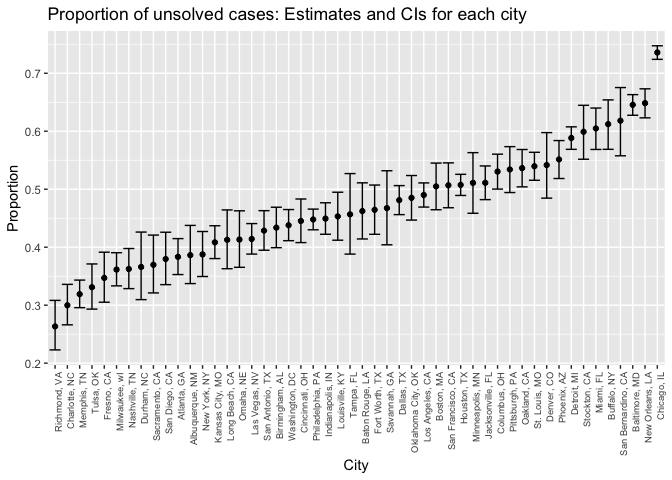
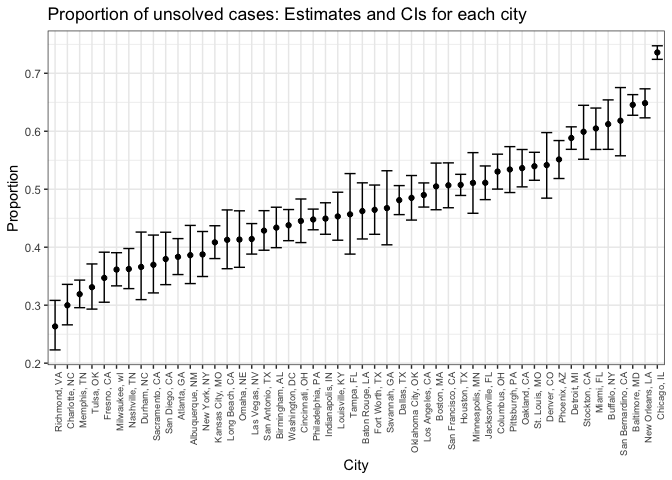
modified text and plot styling

diff --git a/p8105_hw5_xy2395.md b/p8105_hw5_xy2395.md
@@ -67,6 +67,7 @@ data_p1 %>%
   group_by(arm, new_id) %>% 
   ggplot(aes(x = week, y = value, group = new_id, color = arm)) +
   geom_line() +
+  theme_bw() +
   labs(
     title = "Observations on each subject over time"
   )
@@ -74,7 +75,9 @@ data_p1 %>%
 
 ![](p8105_hw5_xy2395_files/figure-markdown_github/unnamed-chunk-2-1.png)
 
-Comment: Observations for the experimental group tended to increase over time, whereas observations for the control group did not show trend of increase over time.
+Comment:
+
+Observations for the experimental group tended to increase over time, whereas observations for the control group did not show trend of increase over time.
 
 Problem 2
 =========
@@ -125,13 +128,16 @@ count_data =
   ungroup()
 ```
 
-For the city of Baltimore, MD, do the proportion test:
+Proportion test for Baltimore, MD
+---------------------------------
 
 ``` r
+# select Baltimore, MD only
 sample = 
   count_data %>% 
   filter(city_state == "Baltimore, MD")
 
+# do the proportion test and select results of interest from the tidy summary
 prop.test(sample$n_unsolved, sample$n_total) %>% 
   broom::tidy() %>% 
   select(estimate, conf.low, conf.high)
@@ -142,9 +148,11 @@ prop.test(sample$n_unsolved, sample$n_total) %>%
     ##      <dbl>    <dbl>     <dbl>
     ## 1    0.646    0.628     0.663
 
-Develop a function for further iteraion:
+Develop a function for further iteraion
+---------------------------------------
 
 ``` r
+# use the name of each city as an argument
 custom_prop_test = function(x_city){
   
   sample = 
@@ -157,7 +165,8 @@ custom_prop_test = function(x_city){
 }
 ```
 
-Iteration among all the cities:
+Iteration across all the cities
+-------------------------------
 
 ``` r
 prop_data = 
@@ -184,7 +193,8 @@ prop_data
     ## 10 Cincinnati, OH     0.445    0.408     0.483
     ## # ... with 40 more rows
 
-Plot:
+Plot
+----
 
 Create a plot that shows the estimates and CIs for each city – check out geom\_errorbar for a way to add error bars based on the upper and lower limits. Organize cities according to the proportion of unsolved homicides.
 
@@ -192,14 +202,15 @@ Create a plot that shows the estimates and CIs for each city – check out geom\
 prop_data %>% 
   mutate(city_state = fct_reorder(city_state, estimate)) %>% 
   ggplot(aes(x = city_state, y = estimate, ymin = conf.low, ymax = conf.high)) +
-  geom_point() +
-  geom_errorbar() +
-  theme(axis.text.x = element_text(angle = 90, hjust = 1, size = rel(0.8))) +
-  labs(
-    x = "City",
-    y = "Proportion",
-    title = "Proportion of unsolved cases: Estimates and CIs for each city"
-  )
+    geom_point() +
+    geom_errorbar() +
+    theme_bw() +
+    theme(axis.text.x = element_text(angle = 90, hjust = 1, size = rel(0.8))) +
+    labs(
+      x = "City",
+      y = "Proportion",
+      title = "Proportion of unsolved cases: Estimates and CIs for each city"
+    )
 ```
 
 ![](p8105_hw5_xy2395_files/figure-markdown_github/unnamed-chunk-8-1.png)
